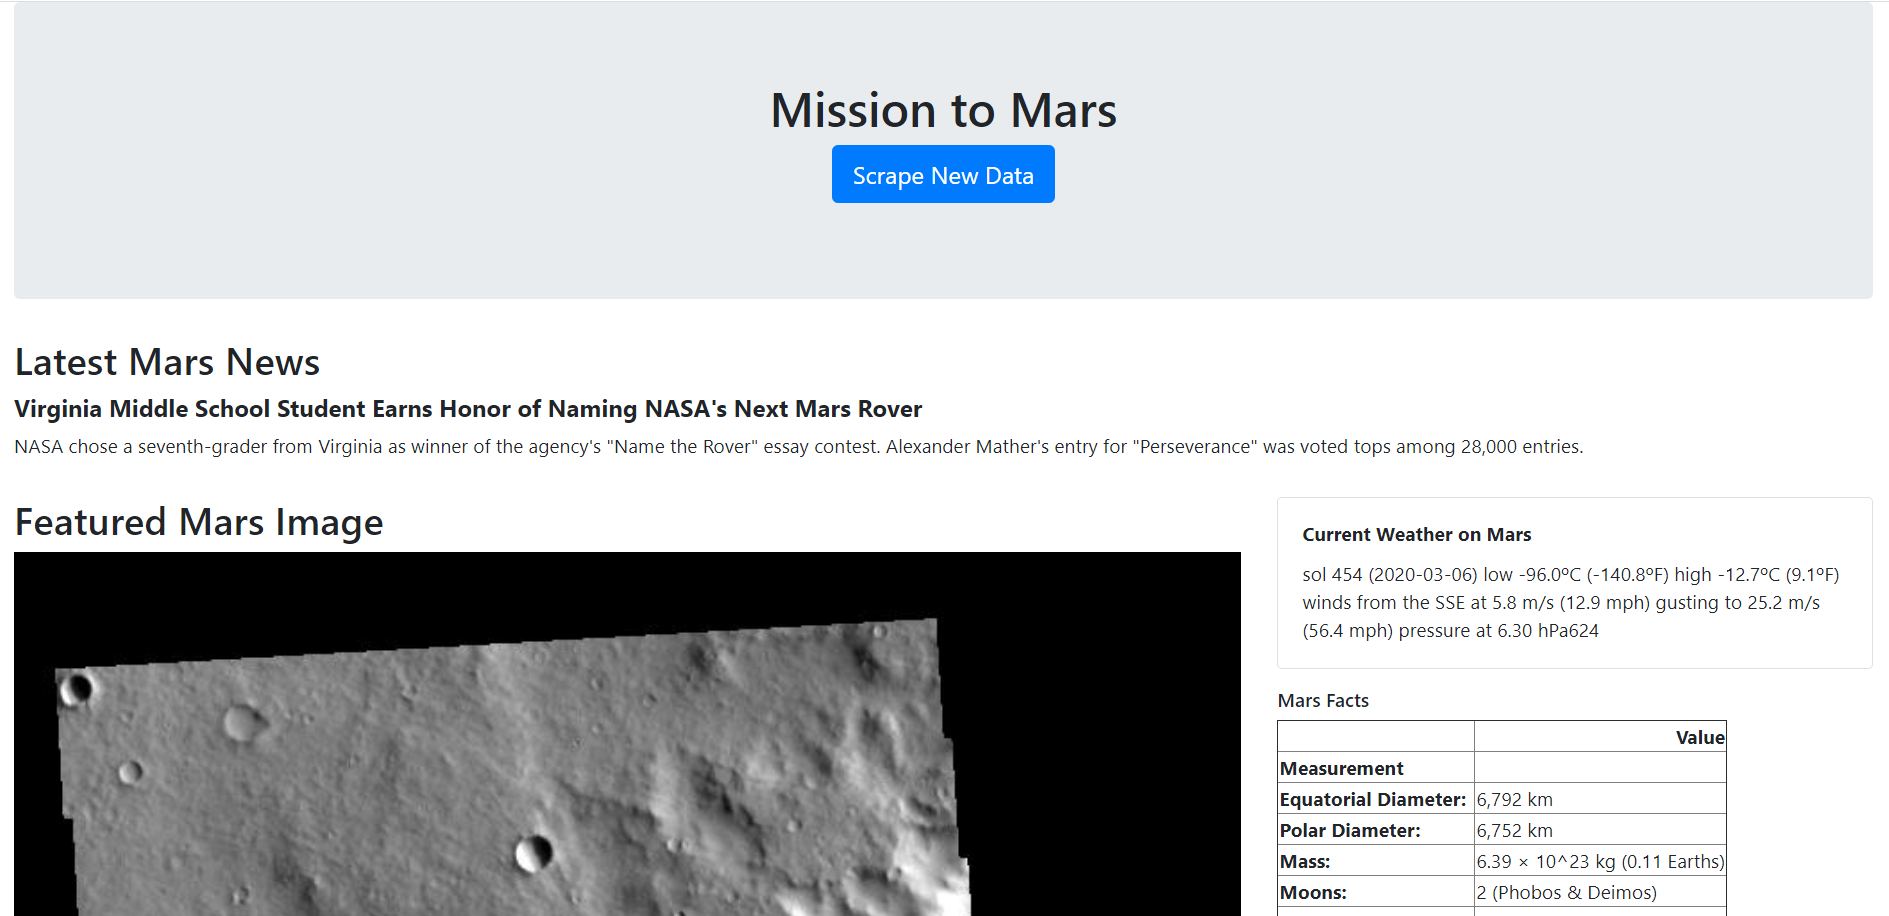
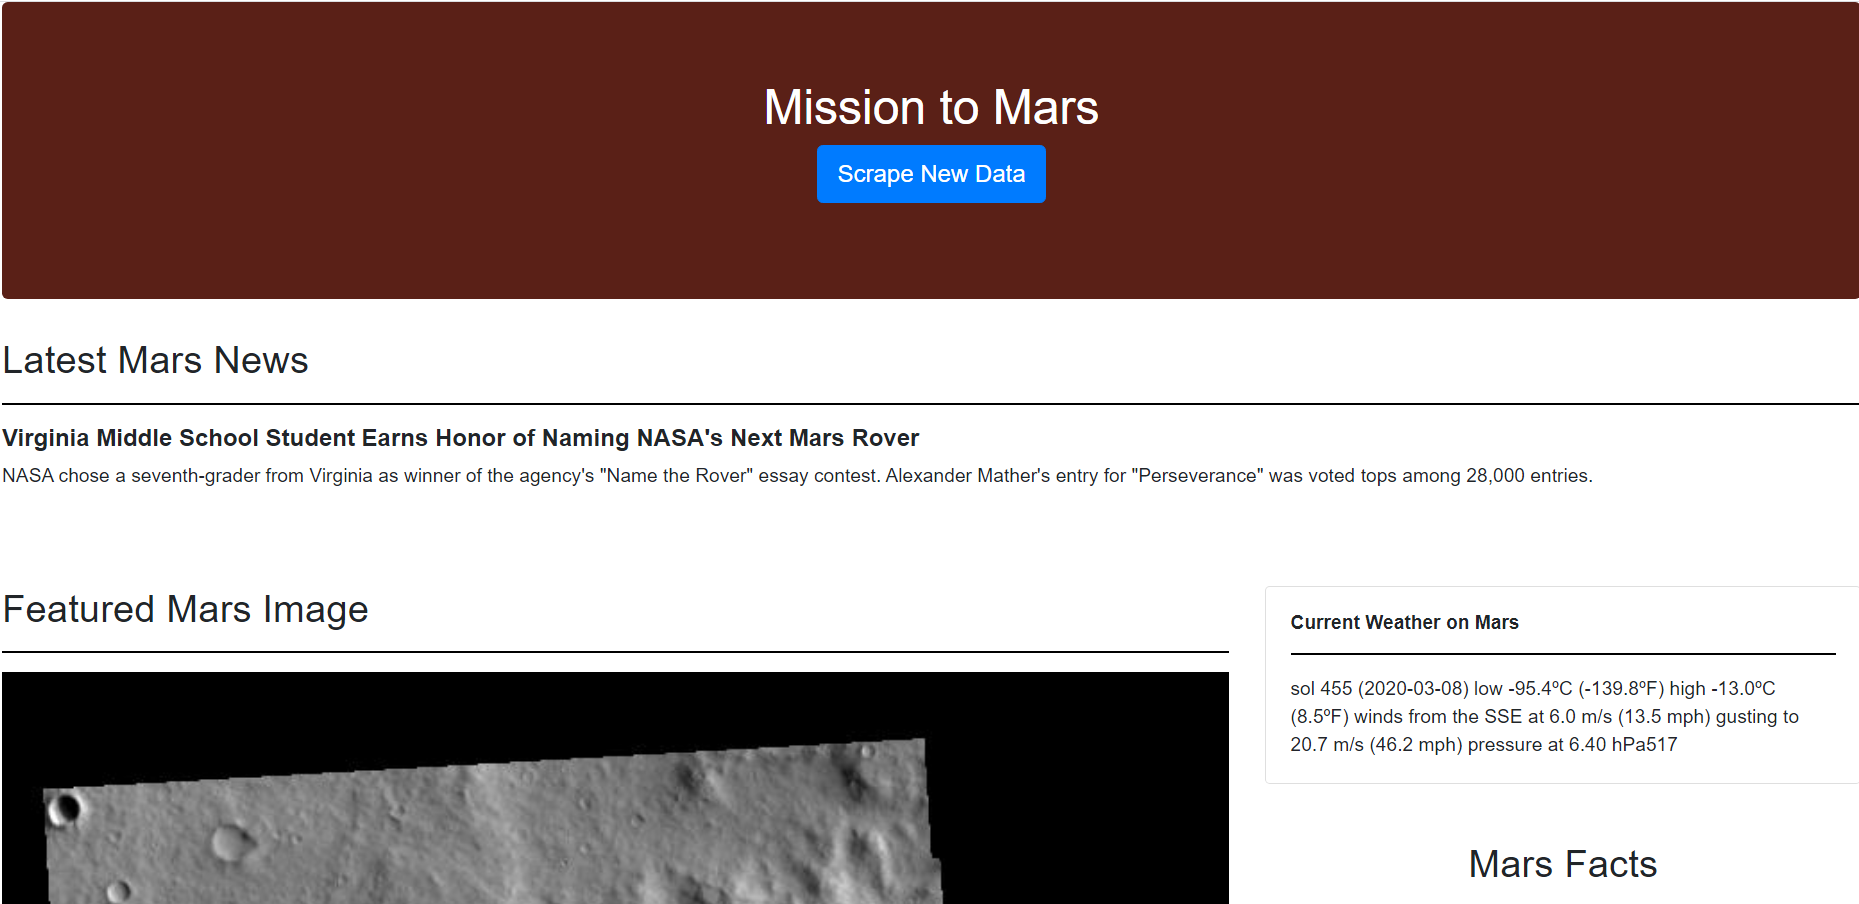
html/css

diff --git a/Missions_to_Mars/templates/index.html b/Missions_to_Mars/templates/index.html
@@ -7,36 +7,44 @@
   <meta http-equiv="X-UA-Compatible" content="ie=edge">
   <title>Mission to Mars</title>
   <link rel="stylesheet" href="https://stackpath.bootstrapcdn.com/bootstrap/4.4.1/css/bootstrap.min.css" integrity="sha384-Vkoo8x4CGsO3+Hhxv8T/Q5PaXtkKtu6ug5TOeNV6gBiFeWPGFN9MuhOf23Q9Ifjh" crossorigin="anonymous">
+  <link rel= "stylesheet" type= "text/css" href="{{ url_for('static', filename='template.css')}}">
 </head>
 
 <body>
   <div class="container-fluid">
-    <div class="jumbotron text-center">
+    <div class="jumbotron text-center header">
       <h1>Mission to Mars</h1>
       <p><a class="btn btn-primary btn-lg" href="/scrape" role="button">Scrape New Data</a></p>
     </div>
     <div class="row">
       <div class="col-md-12">
         <h2>Latest Mars News</h2>
+        <hr>
         <h5 class="font-weight-bold">{{ mars_data.news_title }}</h5>
         <p>{{ mars_data.news_p }}</p>
       </div>
     </div>
     <div class="row mt-3">
-      <div class="col-md-8">
-        <h2>Featured Mars Image</h2>
-        <img class="img-flud" src={{ mars_data.featured_image_url }} style="width: 100%;" />
+
+      <div class="col-xs-12 col-sm-12 col-md-8">
+        <h2 class="mt-5">Featured Mars Image</h2>
+        <hr>
+        <img class="img-fluid" src={{ mars_data.featured_image_url }} style="width: 100%;" />
       </div>
-      <div class="col-md-4">
-        <div class="card" style="width: 100%;">
+
+      <div class="col-xs-12 col-sm-12 col-md-4">
+        <div class="card mt-5" style="width: 100%;">
           <div class="card-body">
             <h6 class="card-title font-weight-bold">Current Weather on Mars</h6>
+            <hr>
             <p class="card-text">{{ mars_data.mars_weather }} </p>
           </div>
         </div>
-        <h6 class="mt-3">Mars Facts</h6>
+        <h2 class="mt-5 text-center">Mars Facts</h2>
+        <hr>
         {{ mars_data.html_table|safe }}
       </div>
+      
     </div>
 
     <div class="row">
@@ -45,9 +53,9 @@
         <hr>
       </div>     
       {% for hemisphere in mars_data.hemisphere_image_urls %}
-        <div class="col-md-6 d-flex justify-content-center">
+        <div class="col-xs-12 col-md-6 d-flex justify-content-center">
           <div class="card mt-5" style="width: 35rem;">
-            <img src={{ hemisphere.img_url }} class="card-img-top rounded mx-auto d-block" alt="...">
+            <img src={{ hemisphere.img_url }} class="card-img-top rounded mx-auto d-block img-fluid" alt="...">
             <div class="card-body">
               <p class="card-text font-weight-bold">{{ hemisphere.title }}</p>
             </div>
@@ -56,6 +64,11 @@
       {% endfor %}     
     </div>
   </div>
+
+  <script>
+      let tableElement = document.getElementsByClassName("dataframe");
+      tableElement[0].classList.add("table-dark", "table-striped", "table-bordered", "table-hover");
+  </script>
 </body>
 
 </html>

diff --git a/Missions_to_Mars/static/template.css b/Missions_to_Mars/static/template.css
@@ -1,0 +1,28 @@
+td {
+  padding: 10px;
+}
+
+th {
+  text-align: left;
+  padding: 10px;
+}
+
+body {
+  font-family: 'Montserrat', sans-serif;
+}
+
+.header {
+  background-color: #5a2017;
+  font-size: 8px;
+  color: #fff;
+}
+
+hr {
+  border-top: 2px solid #000;
+}
+
+.scrape-btn {
+  background-color: #193f93;
+  border: 1px solid #193f93;
+
+
